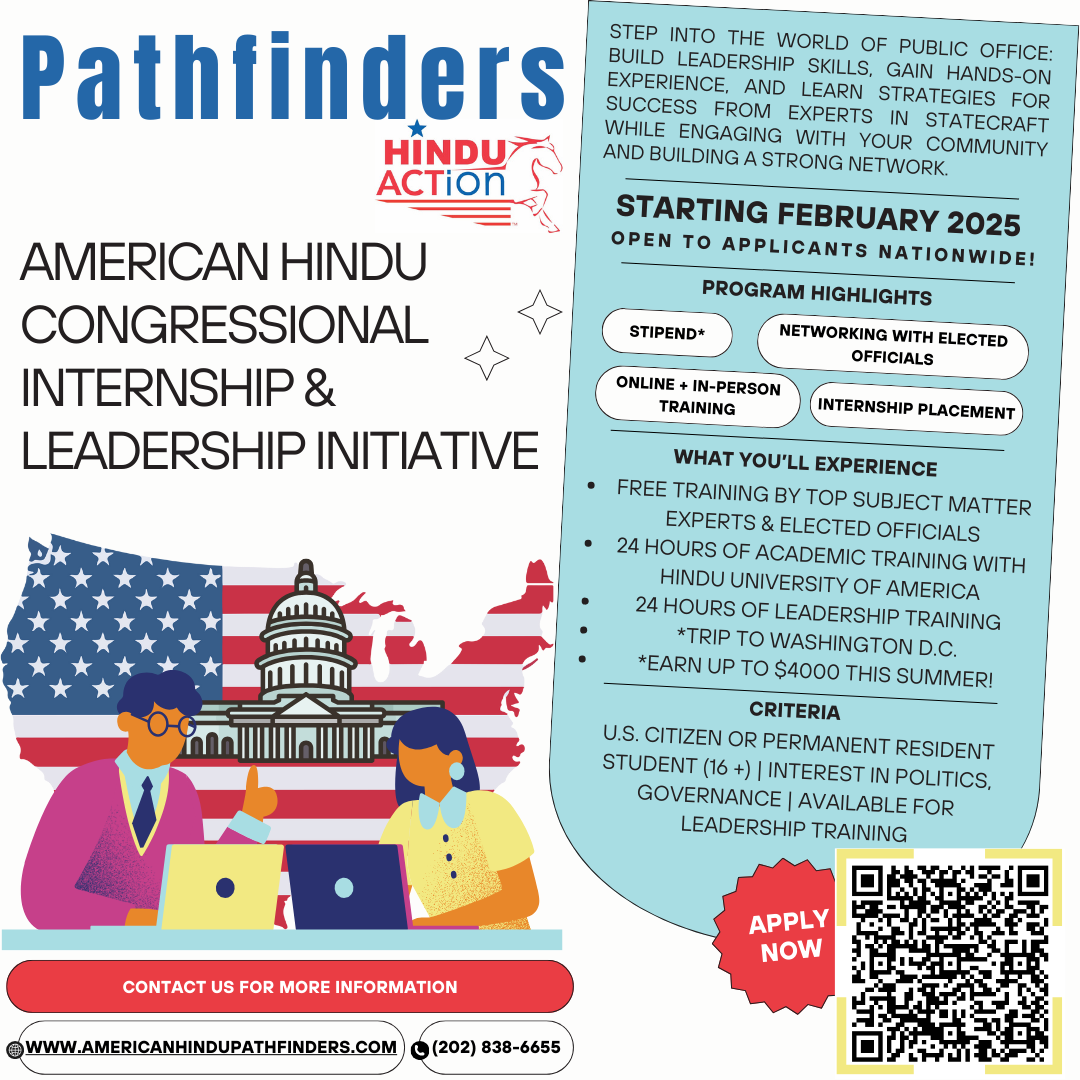
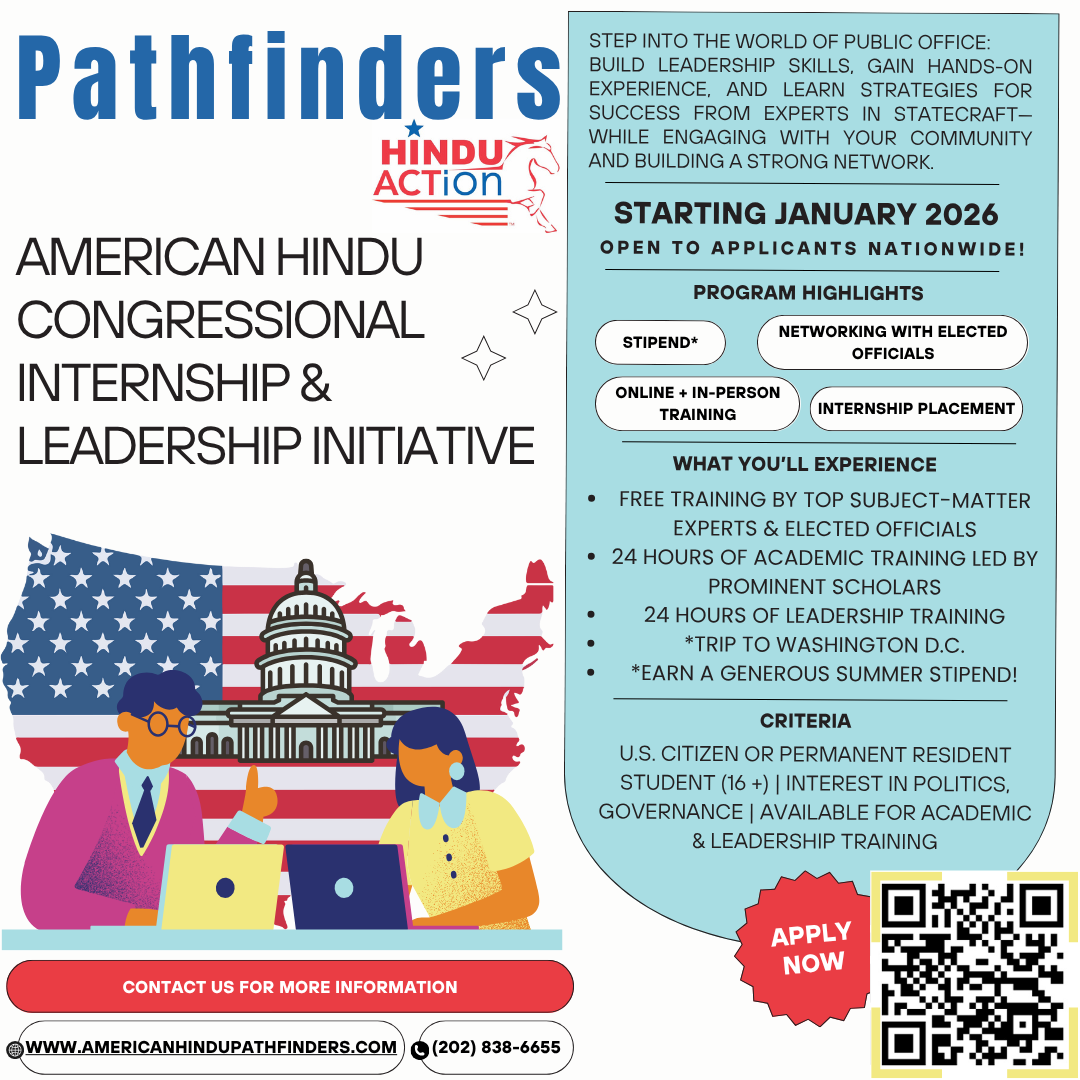
Updates to the content

diff --git a/src/index.html b/src/index.html
@@ -431,7 +431,7 @@ eleventyNavigation:
                     <img class="cs-icon" aria-hidden="true" loading="lazy" decoding="async" src="/assets/svgs/education.svg" alt="icon" width="48" height="48">
                     <h3 class="cs-h3">Unique effort in Education</h3>
                     <p class="cs-item-text">
-                        In partnership with Hindu University of America (HUA), situate the development of Hindu thought in its historical as well as socio-political 
+                        In partnership with Hindu University of America (HUA) and prominent scholars, situate the development of Hindu thought in its historical as well as socio-political 
                         context & contrast them with some of the axiomatic ideas originating from other 
                         religions & ideologies.
                     </p>
@@ -448,7 +448,7 @@ eleventyNavigation:
                     <img class="cs-icon" aria-hidden="true" loading="lazy" decoding="async" src="/assets/svgs/networking.svg" alt="icon" width="48" height="48">
                     <h3 class="cs-h3">Networking</h3>
                     <p class="cs-item-text">
-                        Exclusive networking opportunities as well as access to influential thought leaders 
+                        Exclusive networking opportunities with influential thought leaders 
                         & policy makers in Washington D.C.
                     </p>
                 </li>
@@ -466,18 +466,17 @@ eleventyNavigation:
                     <img class="cs-icon" aria-hidden="true" loading="lazy" decoding="async" src="/assets/svgs/money.svg" alt="icon" width="40" height="48">
                     <h3 class="cs-h3">Stipend</h3>
                     <p class="cs-item-text">
-                        A competitive stipend will be offered by HINDUACTion for the duration of the internship. 
+                        Earn a generous stipend from HINDUACTion during the internship. 
                         Earn up to $4000 from HINDUACTion on top of your Congressional stipend.*
                     </p>
                 </li>
                 <li class="cs-item">
                     <img class="cs-icon" aria-hidden="true" loading="lazy" decoding="async" src="/assets/svgs/trip.svg" alt="icon" width="48" height="48">
-                    <h3 class="cs-h3">Trip To Washington D.C.</h3>
+                    <h3 class="cs-h3">Immersion Program in Washington D.C.</h3>
                     <p class="cs-item-text">
                         Take a fully paid trip to Washington D.C., and meet and learn from elected officials.
-                        Attend 10 hours of in-person training on April 12-13, 2025, for students 18 and older (Federal Internship training Program).
-                        Students under 18 at the time of travel have the option to join the 10-hour training online from their respective locations. 
-                        Experience public office firsthand through a Congressional internship.
+                        Attend 20 hours of in-person training during winter 2026 for students 18 and older.
+                        Students under 18 at the time of travel have the option to join the 20-hour training online from their respective locations. 
                     </p>
                 </li>
             </ul>
@@ -509,7 +508,7 @@ eleventyNavigation:
                             </h3>
                         </div>
                         <p class="cs-item-text">
-                            Enrolled at an accredited university in the U.S. or graduated within the last year, with GPA > 3.0.
+                            Enrolled at an accredited university or college in the U.S. or graduated within the last year, with GPA > 3.0.
                         </p>
                     </li>
                     <li class="cs-item">
@@ -531,8 +530,8 @@ eleventyNavigation:
                             </h3>
                         </div>
                         <p class="cs-item-text">
-                            Attend a 48-hour training program: 24 hours of educational and 
-                            24 hours of leadership training. Internship assistance to be
+                            Attend a 50-hour training program: 25 hours of educational and 
+                            25 hours of leadership training. Internship assistance to be
                             provided after the successful completion of the program.
                         </p>
                     </li>
@@ -600,7 +599,7 @@ eleventyNavigation:
                             </h3>
                         </div>
                         <p class="cs-item-text">
-                            Enrolled at an accredited university in the U.S. or a High School in the U.S.
+                            Enrolled in High School in the U.S.
                         </p>
                     </li>
                     <li class="cs-item">
@@ -611,8 +610,8 @@ eleventyNavigation:
                             </h3>
                         </div>
                         <p class="cs-item-text">
-                            Attend a 48-hour training program: 24 hours of educational and 
-                            24 hours of leadership training. Internship assistance to be
+                            Attend a 50-hour training program: 25 hours of educational and 
+                            25 hours of leadership training. Internship assistance to be
                             provided after the successful completion of the program.
                         </p>
                     </li>

diff --git a/src/content/pages/faqs.html b/src/content/pages/faqs.html
@@ -64,13 +64,13 @@ eleventyNavigation:
                     <li class="cs-faq-item active">
                         <button class="cs-button">When will I know if I am selected for the program?</button>
                         <p class="cs-item-p">
-                            Selections will be announced by the last week of February 2025. 
+                            Selections will be announced after interview process is completed by the first week of December 2025. 
                         </p>
                     </li>
                     <li class="cs-faq-item">
                         <button class="cs-button">When does the Educational & Leadership Training begin?</button>
                         <p class="cs-item-p">
-                            Training starts on the first weekend of March 2025. 
+                            Training starts in second week of January 2026. 
                         </p>
                     </li>
                     <li class="cs-faq-item">
@@ -82,20 +82,24 @@ eleventyNavigation:
                     <li class="cs-faq-item">
                         <button class="cs-button">Is there a cost for the training and internship program?</button>
                         <p class="cs-item-p">
-                            No, HinduACTion covers all costs for the leadership training. 
+                            HinduACTion covers all costs for the Pathfinders program.</br>
+                            However, contributions are appreciated. To make your tax exepted donations, please go to:
+                        </br>
+                        <a href="https://www.hindu-action.org/donate" class="cs-button-solid">Donate</a>
+
                         </p>
                     </li>
                     <li class="cs-faq-item">
                         <button class="cs-button">Will there be in-person training?</button>
                         <p class="cs-item-p">
-                            Yes, a 10-hour in-person training will be held in Washington D.C. on April 12-13, 2025, for students 18 and older (Federal Internship Program).
-                            Students under 18 at the time of travel can complete the 10-hour training online from their respective locations. 
+                            Yes, a 20-hour in-person training will be held in Washington D.C. in Winter 2026, for students 18 and older.
+                            Students under 18 at the time of travel can complete the 20-hour training online from their respective locations. 
                         </p>
                     </li>
                     <li class="cs-faq-item">
                         <button class="cs-button">Does the leadership training guarantee an internship?</button>
                         <p class="cs-item-p">
-                            HinduACTion facilitates placements with lawmakers, but final selection is at their discretion. 
+                            HinduACTion facilitates placements with lawmakers, thinktanks, and other suitable avenues, but final selection is at their discretion. 
                         </p>
                     </li>
                     <li class="cs-faq-item">
@@ -103,7 +107,7 @@ eleventyNavigation:
                         <p class="cs-item-p">
                             Yes:
                             Up to $1,500/month for interns with Federal lawmakers.
-                            Up to $800/month for interns with State lawmakers.
+                            Up to $500/month for interns with State lawmakers.
                             (Stipends are provided upon successful completion of the training.) 
                         </p>
                     </li>
